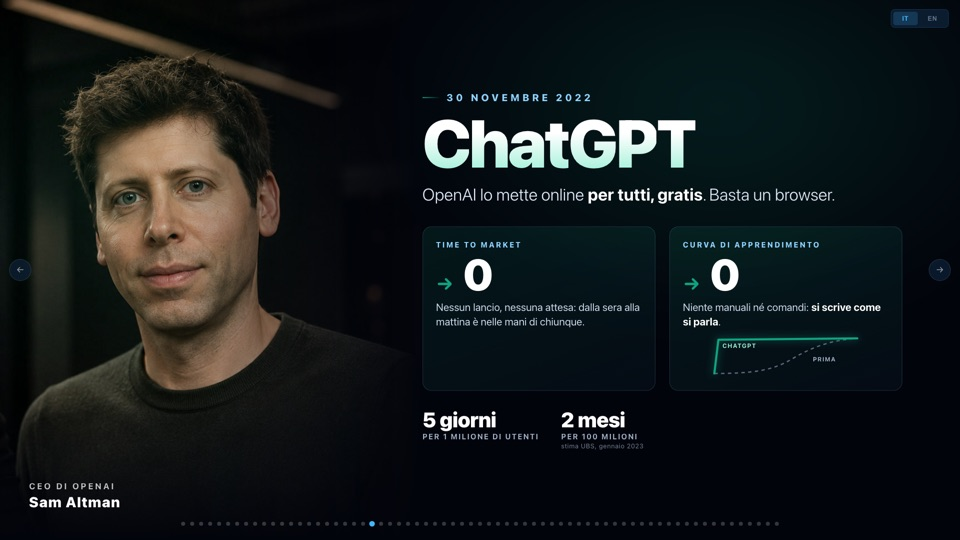
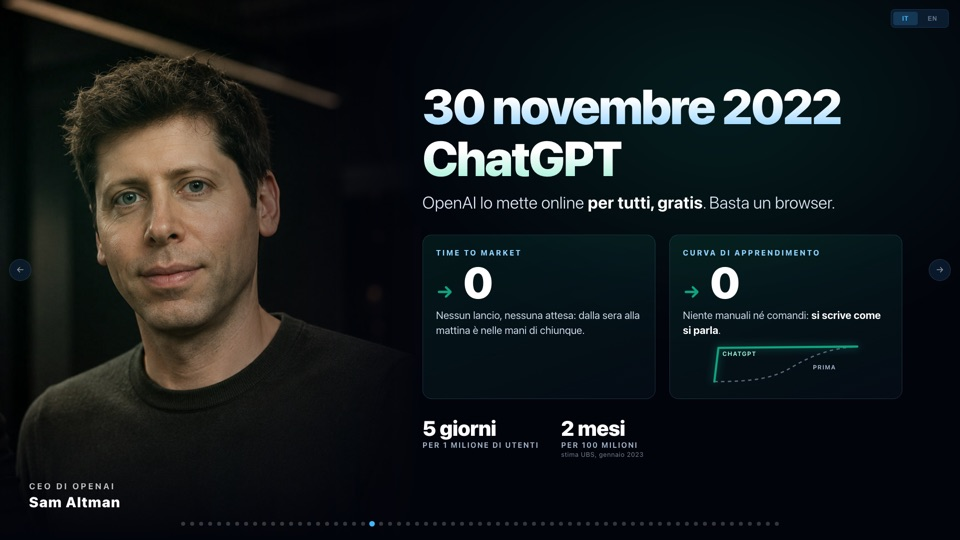
fix: slide ChatGPT — «30 novembre 2022» grande quanto «ChatGPT»

diff --git a/chatgpt-2022.html b/chatgpt-2022.html
@@ -37,16 +37,14 @@
 
     /* ---------- Testo a destra ---------- */
     .copy { position: absolute; z-index: 3; left: 44vw; right: 6vw; top: 50%; transform: translateY(-50%); }
+    /* data e nome alla stessa misura: due righe di titolo */
+    .date, .title { margin: 0; line-height: 1; font-size: clamp(42px, 5.1vw, 104px); font-weight: 900; letter-spacing: -0.035em; white-space: nowrap; }
     .date {
-      display: inline-flex; align-items: center; gap: 12px;
-      font-size: clamp(13px, 1.15vw, 20px); font-weight: 800; letter-spacing: 0.3em; text-transform: uppercase; color: var(--accent-soft);
+      background: linear-gradient(180deg, #fff 35%, #8fd2ff 100%); -webkit-background-clip: text; background-clip: text;
+      -webkit-text-fill-color: transparent; color: transparent;
       animation: rise 1s 0.3s var(--ease) both;
     }
-    .date::before { content: ''; width: 36px; height: 2px; background: linear-gradient(90deg, var(--green), transparent); }
-    .title {
-      margin: clamp(8px, 1.4vh, 16px) 0 0; line-height: 0.95;
-      font-size: clamp(52px, 7vw, 136px); font-weight: 900; letter-spacing: -0.035em;
-    }
+    .title { margin-top: 0.06em; }
     .title .ch { display: inline-block; animation: chIn 0.9s var(--ease) both;
       background: linear-gradient(180deg, #fff 35%, #9ff0d6 100%); -webkit-background-clip: text; background-clip: text;
       -webkit-text-fill-color: transparent; color: transparent; }
@@ -104,7 +102,7 @@
     <div class="who" id="who"></div>
 
     <div class="copy">
-      <div class="date" id="date"></div>
+      <h2 class="date" id="date"></h2>
       <h1 class="title" id="title"></h1>
       <p class="sub" id="sub"></p>
 
